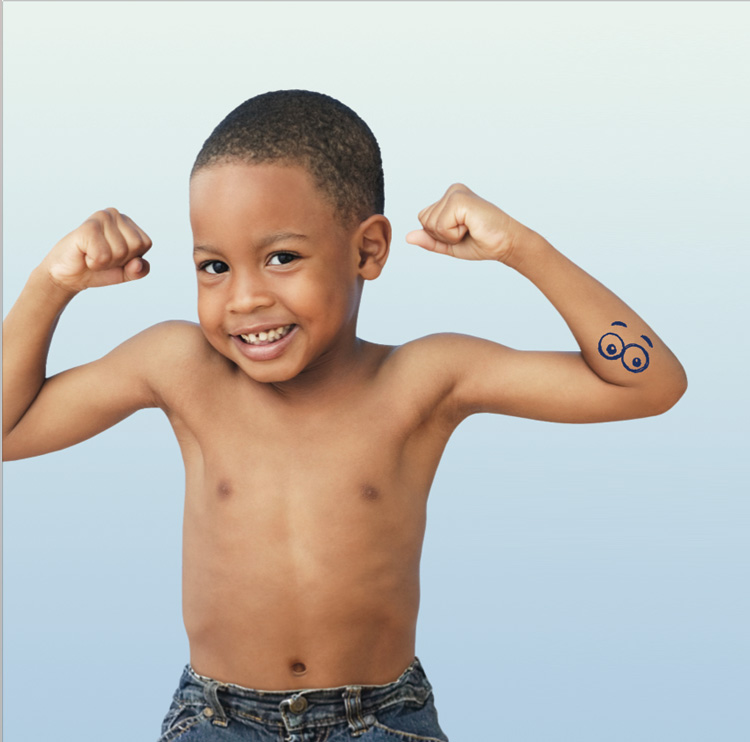
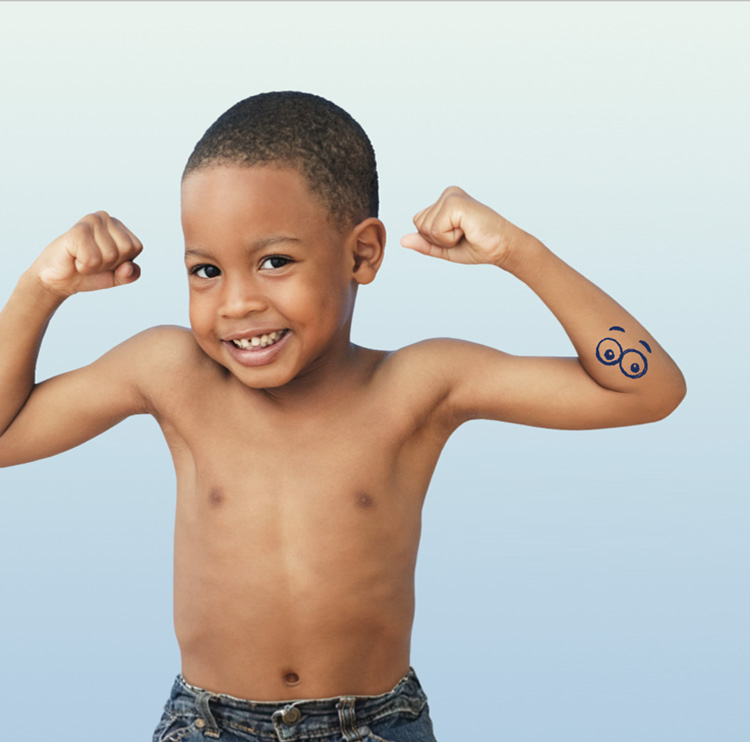
client
~ bg absolute

diff --git a/css/component.css b/css/component.css
@@ -43,7 +43,7 @@
 .client {
   height: 480px;
   padding: 20px;
-  background-attachment: fixed;
+  background-attachment: absolute;
   background-size: cover;
   background-position: center center;
   background-repeat: no-repeat;
